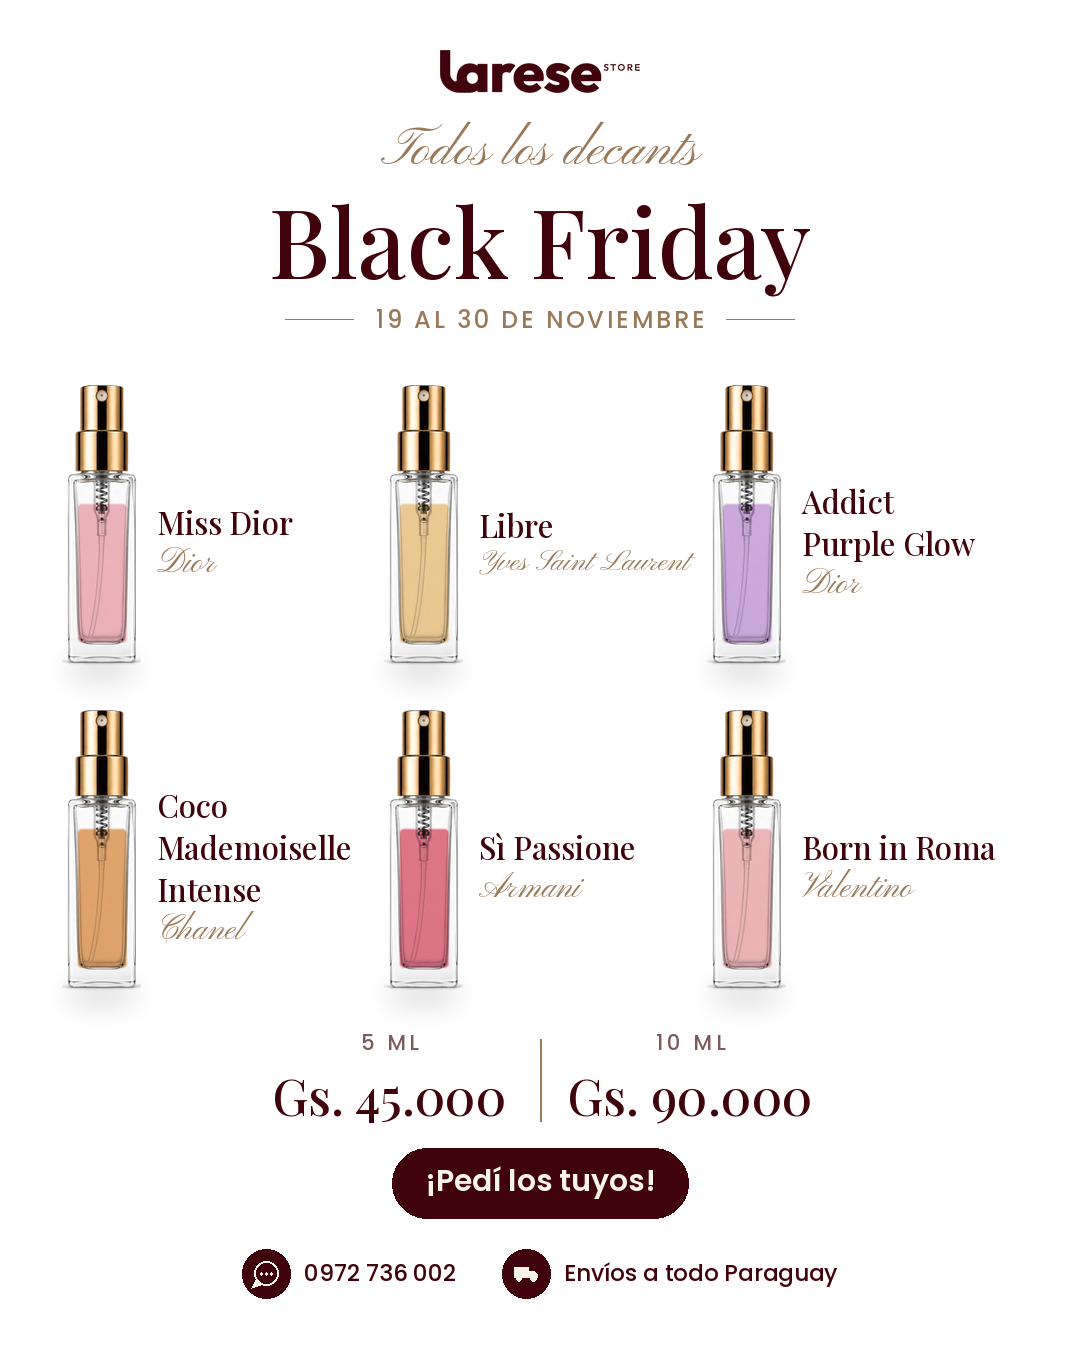
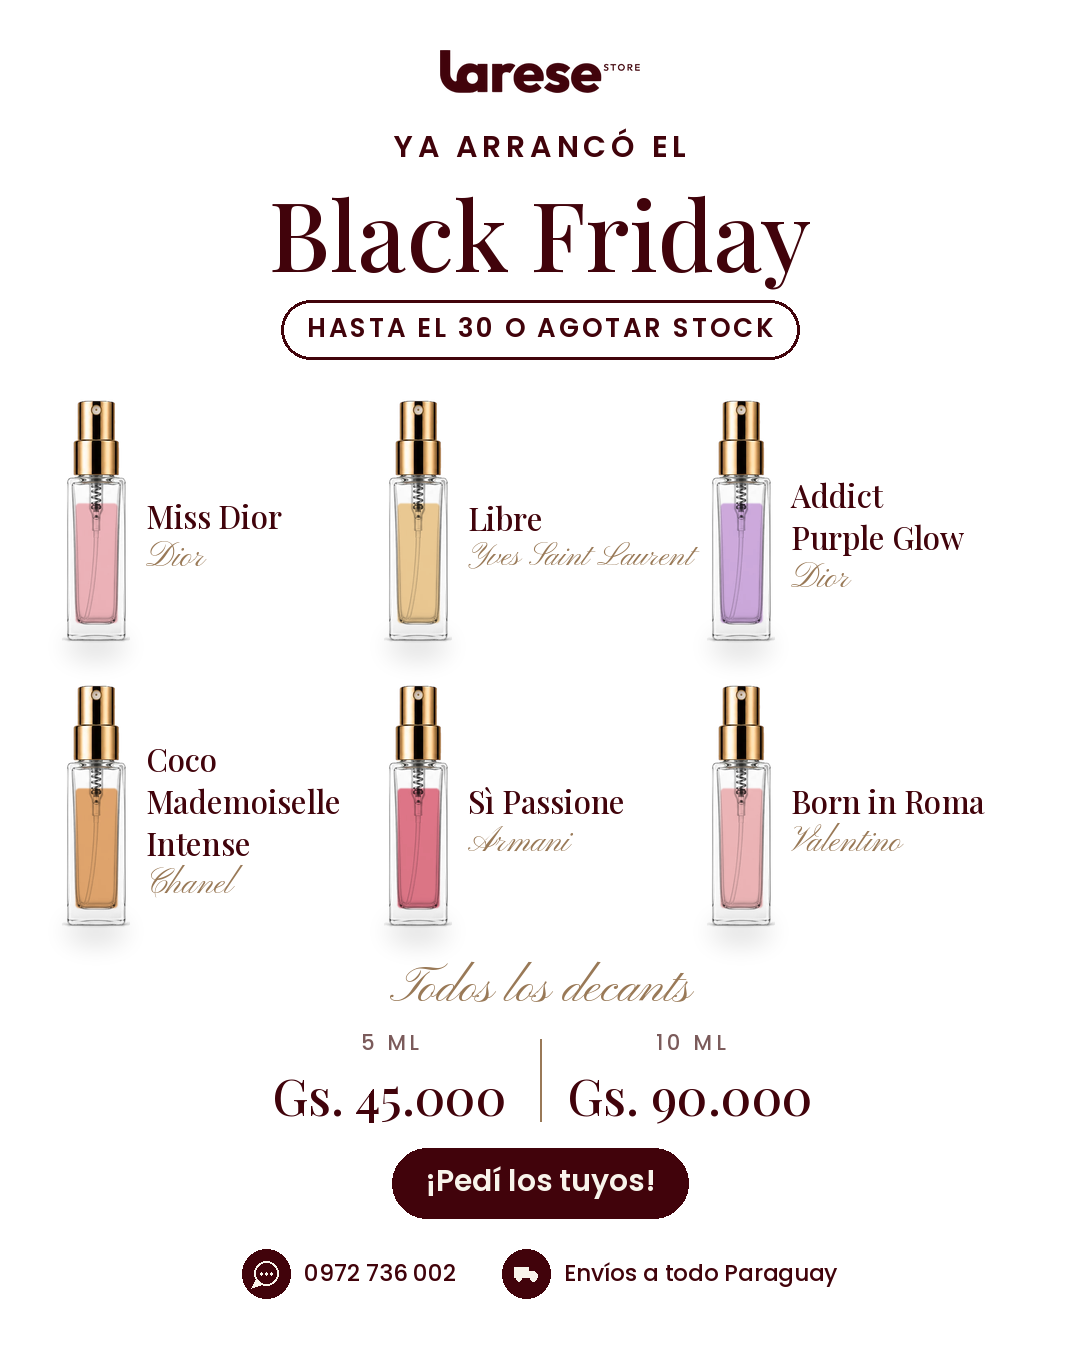
Black Friday flyer: 'YA ARRANCÓ EL' and 'HASTA EL 30 O AGOTAR STOCK' for the Meta ad
Claude-Session: https://claude.ai/code/session_01DnzkNLcZedFpQcyR6bg5VG

diff --git a/flyer-black-friday-decants/fuente/armar_flyer.py b/flyer-black-friday-decants/fuente/armar_flyer.py
@@ -1,5 +1,5 @@
 #!/usr/bin/env python3
-"""Flyer Black Friday de decants (19 al 30 de noviembre), fondo blanco (lo pidió la dueña):
+"""Flyer Black Friday de decants (desde el 19 hasta el 30 de noviembre o agotar stock), fondo blanco (lo pidió la dueña):
 6 frascos con el nombre de cada perfume al lado y el precio único
 (5 ml Gs. 45.000 · 10 ml Gs. 90.000).
 
@@ -38,9 +38,10 @@ PERFUMES = [
 ]
 PRECIOS = [("5 ml", 45000), ("10 ml", 90000)]
 
-ETIQUETA = "Todos los decants"
+ETIQUETA = "YA ARRANCÓ EL"
 TITULO = "Black Friday"
-SUBTITULO = "19 al 30 de noviembre"
+SUBTITULO = "HASTA EL 30 O AGOTAR STOCK"   # la dueña lo pidió así, en mayúsculas (19/11)
+TODOS = "Todos los decants"
 CTA = "¡Pedí los tuyos!"
 
 
@@ -119,20 +120,24 @@ def armar(formato):
     logo = cp.logo_mascara("texto", M["logo_w"])
     img.alpha_composite(cp.capa_color(logo, cp.BORDO), (int(cx - logo.width / 2), M["logo_y"]))
     y = M["logo_y"] + logo.height + M["eti"] * 0.45
-    fe = cp.cursiva(M["eti"])
-    cp.txt(d, cx, y, ETIQUETA, fe, DORADO)
-    y += cp.alto_linea(fe, 0.85)
+    fe = cp.fuente(M["sub"] * 1.25, b"SemiBold")
+    y += M["eti"] * 0.15
+    cp.txt(d, cx, y, ETIQUETA, fe, cp.BORDO, esp=M["sub"] * 0.2)
+    y += cp.alto_linea(fe, 1.0)
     ft = cp.fuente(M["tit"], b"Bold")
     cp.txt(d, cx, y, TITULO, ft, cp.BORDO)
     y += cp.alto_linea(ft, 0.98)
-    fs = cp.fuente(M["sub"], b"Medium")
-    t = SUBTITULO.upper()
-    cp.txt(d, cx, y, t, fs, DORADO, esp=M["sub"] * 0.12)
-    wl = cp.ancho_txt(d, t, fs, M["sub"] * 0.12)
-    ly = y + cp.alto_linea(fs) * 0.5
-    d.line((cx - wl / 2 - 90, ly, cx - wl / 2 - 22, ly), fill=DORADO, width=1)
-    d.line((cx + wl / 2 + 22, ly, cx + wl / 2 + 90, ly), fill=DORADO, width=1)
-    arriba = y + cp.alto_linea(fs, 1.15) + h * 0.025
+    # HASTA EL 30 O AGOTAR STOCK: píldora con borde bordó (el botón de abajo es bordó lleno)
+    fs = cp.fuente(M["sub"] * 1.1, b"SemiBold")
+    esp = M["sub"] * 0.12
+    wl = cp.ancho_txt(d, SUBTITULO, fs, esp)
+    al = cp.alto_linea(fs)
+    px, py = M["sub"] * 1.1, M["sub"] * 0.45
+    y += M["sub"] * 0.2
+    d.rounded_rectangle((cx - wl / 2 - px, y, cx + wl / 2 + px, y + al + 2 * py),
+                        radius=(al + 2 * py) / 2, outline=cp.BORDO, width=3)
+    cp.txt(d, cx, y + py - M["sub"] * 0.05, SUBTITULO, fs, cp.BORDO, esp=esp)
+    arriba = y + al + 2 * py + h * 0.025
 
     # abajo: precios, botón y pie
     pie_y = h - M["pie_y"] - M["pie"] * 2.1
@@ -140,7 +145,9 @@ def armar(formato):
     y_cta = pie_y - M["pie"] * 1.4 - alto_cta
     alto_pre = cp.alto_linea(cp.fuente(M["ml"], b"Medium"), 1.1) + cp.alto_linea(cp.fuente(M["pre"], b"Bold"), 1.0)
     y_pre = y_cta - M["cta"] * 0.6 - alto_pre
-    abajo = y_pre - h * 0.02
+    f_todos = cp.cursiva(M["eti"] * 0.95)
+    y_todos = y_pre - cp.alto_linea(f_todos, 0.8) - M["ml"] * 0.9
+    abajo = y_todos - h * 0.015
 
     # medio: grilla de 3 columnas x 2 filas
     ancho_col = (w - 2 * M["margen"]) / 3
@@ -151,6 +158,7 @@ def armar(formato):
         y0 = arriba + r * (alto_fila + M["gap_y"])
         celda(img, fr, nombre, marca, (x0 + 6, y0, x0 + ancho_col - 8, y0 + alto_fila), M)
 
+    cp.txt(ImageDraw.Draw(img), cx, y_todos, TODOS, f_todos, DORADO)
     bloque_precios(img, cx, y_pre, M)
     # botón y círculos del pie en bordó vino, con letras e íconos crema
     previo = (cp.BLANCO, cp.TEXTO)
